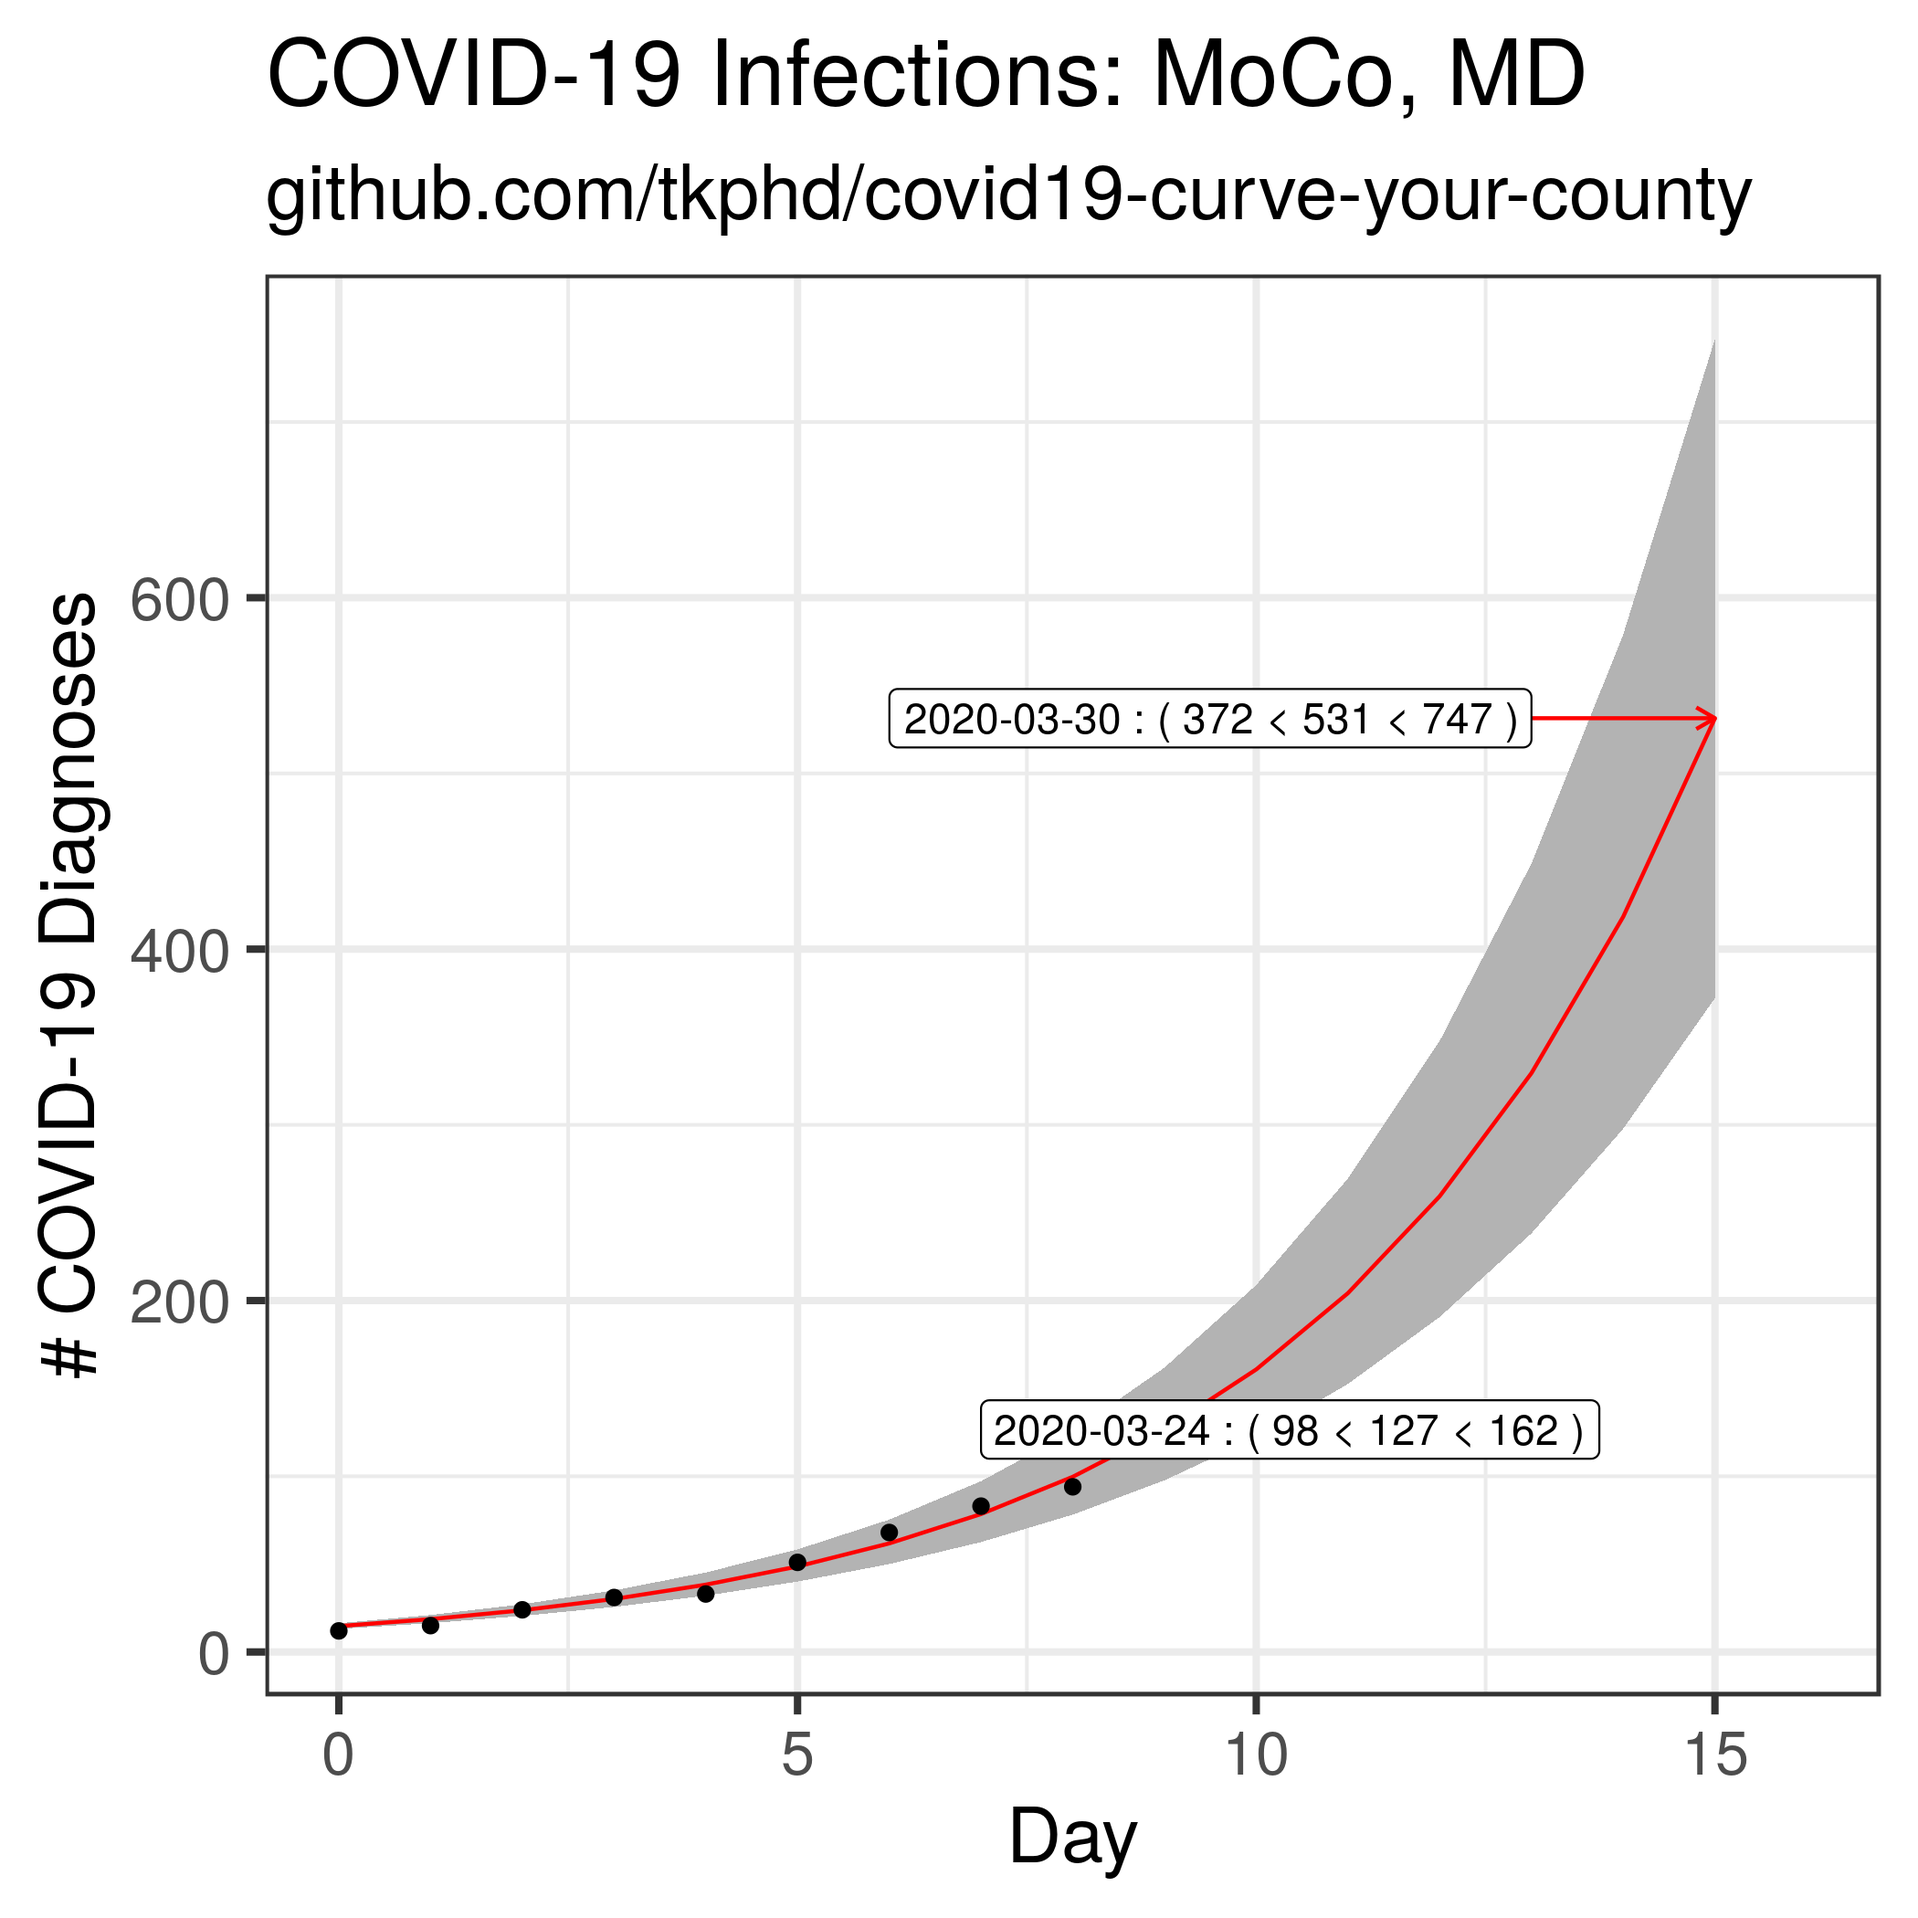
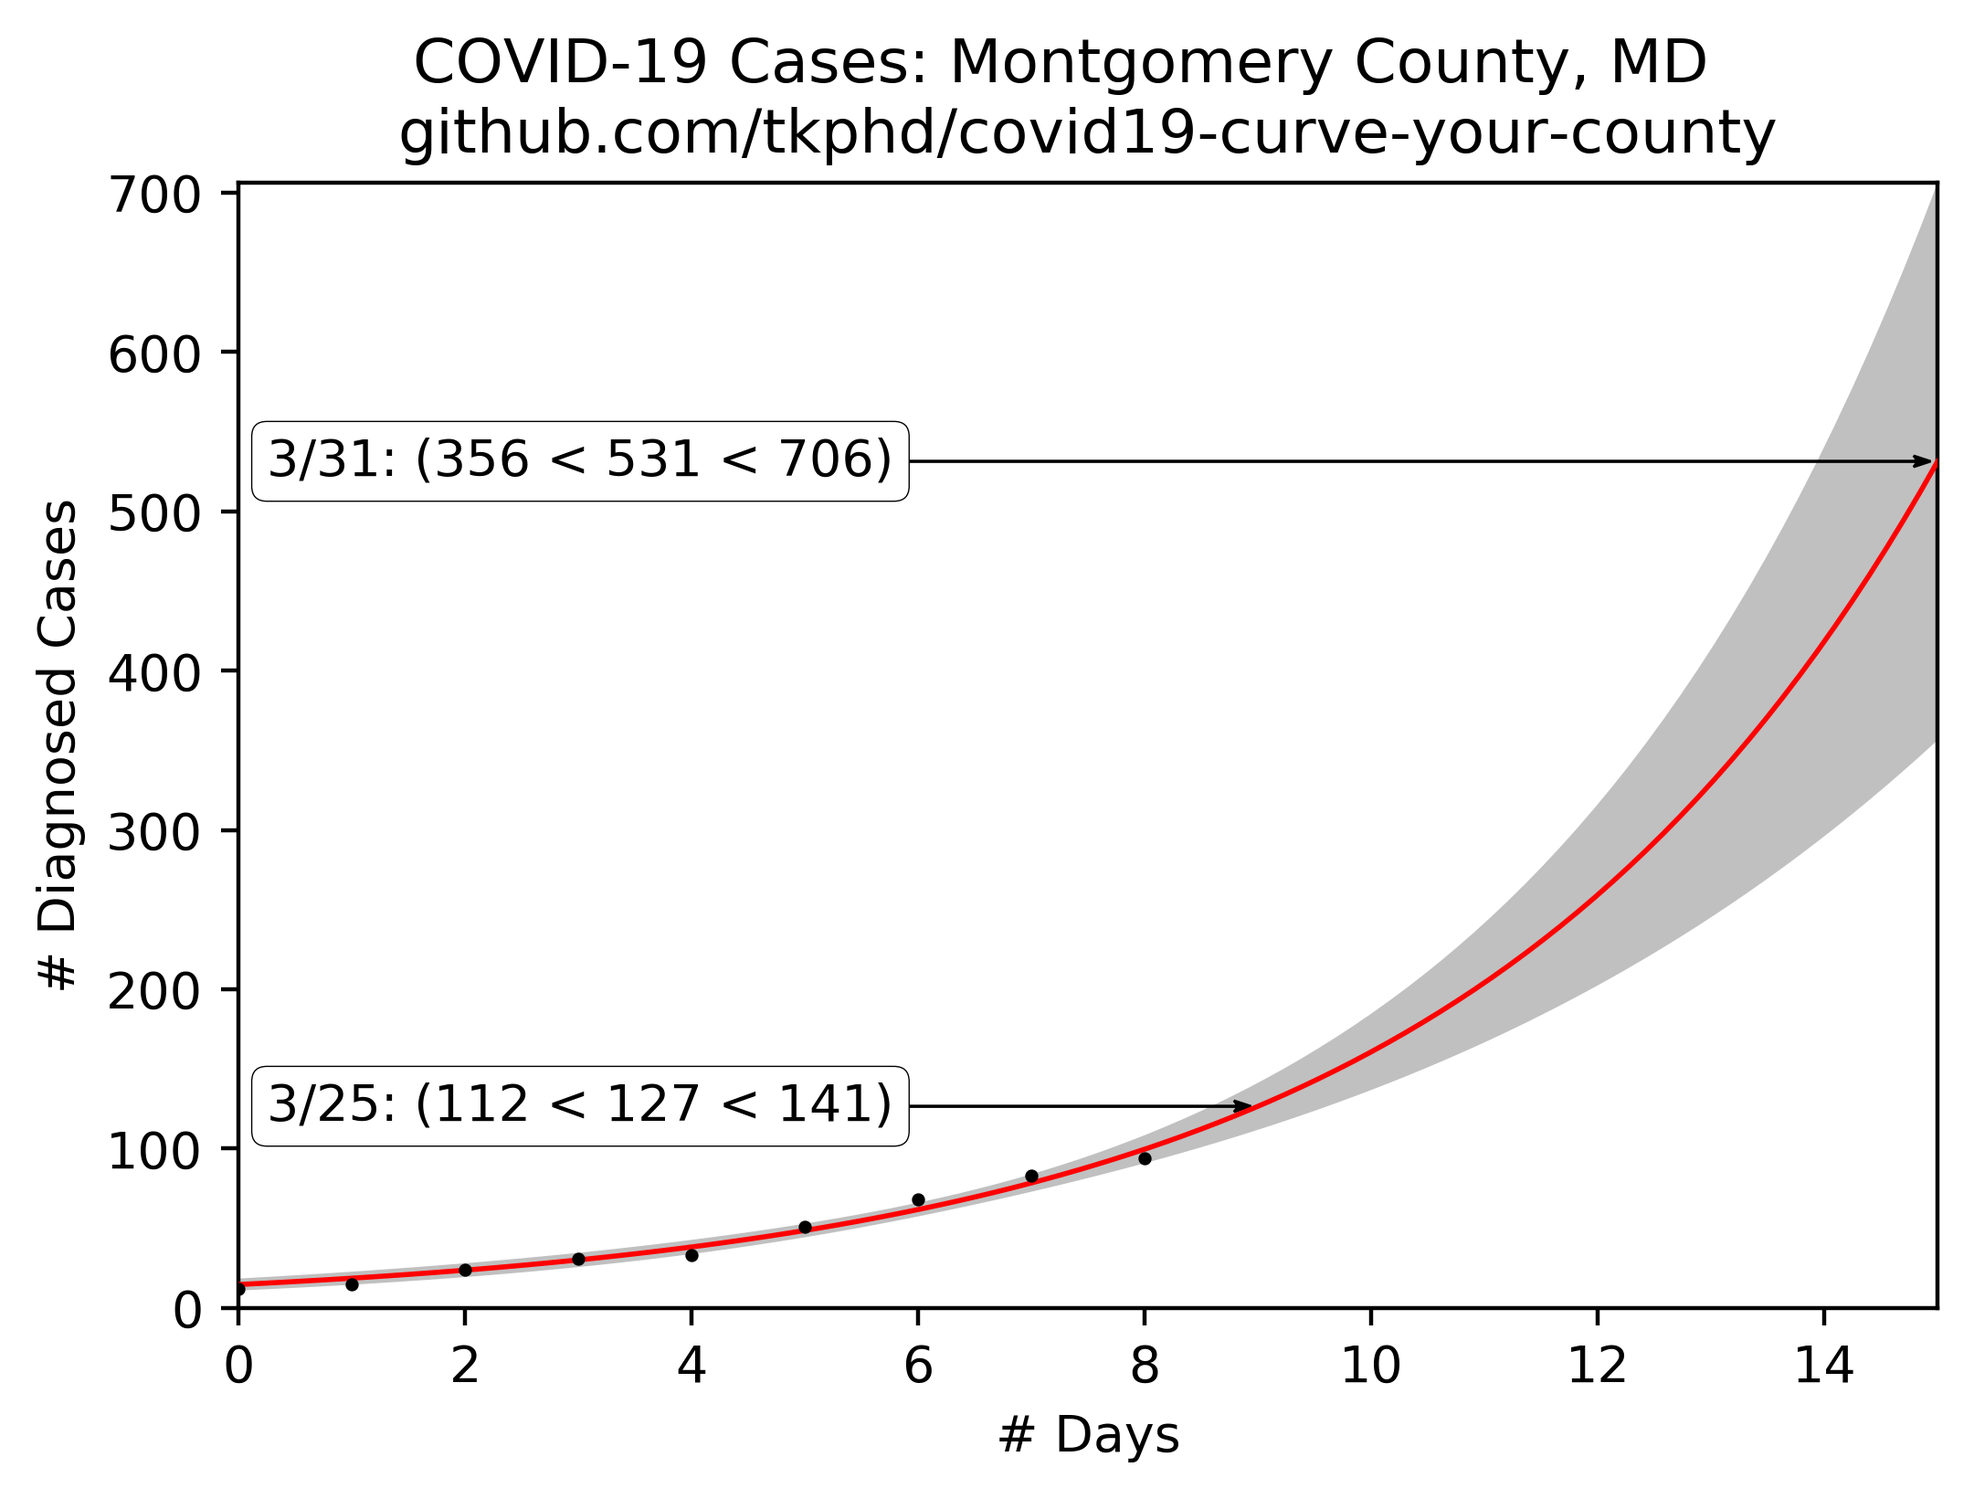
fully ported model from R to Python

diff --git a/exponential.py b/exponential.py
@@ -6,38 +6,125 @@ import numpy as np
 import pandas as pd
 from kapteyn import kmpfit
 from time import strptime
+from datetime import date
+from scipy.stats import t
 
 def model(p, x):
-    a, b, c = p
-    return a * np.exp(b * x) + c
+    a, b = p
+    return a * (1 + b) ** x
 
+
+fig = plt.figure(figsize=(6, 4))
+plt.suptitle("COVID-19 Cases: Montgomery County, MD")
+plt.title("github.com/tkphd/covid19-curve-your-county")
+plt.xlabel("# Days")
+plt.ylabel("# Diagnosed Cases")
+
+# Data
 
 df = pd.read_csv("us_md_montgomery.csv")
 
 y = np.array(df["diagnosed"])
 start = strptime(df["date"].iloc[0], "%Y-%m-%d").tm_yday
+today = strptime(df["date"].iloc[-1], "%Y-%m-%d").tm_yday
 
 x = np.zeros_like(y)
 for i in range(len(x)):
     x[i] = strptime(df["date"].iloc[i], "%Y-%m-%d").tm_yday - start
 
-# fit
-f = kmpfit.simplefit(model, [1, 1, 1], x, y)
-a, b, c = f.params
-cov = f.covar
-print("cases ~ {0:.2g} * exp({1:.2g} * (t - t0)) - {2:.2g}".format(a, b, -c))
+plt.scatter(x, y, marker=".", s=10, color="k", zorder=10)
 
-# confidence band; dfdp represents the partial derivatives of the model with respect to each parameter p (i.e., a, b, and c)
-dfdp = [np.exp(b * x), a * x * np.exp(b * x), 1]
-yhat, upper, lower = f.confidence_band(x, dfdp, 0.99, model)
+# Levenburg-Marquardt Least-Squares Fit
 
-plt.scatter(x, y, marker=".", s=10, color="#0000ba")
-ix = np.argsort(x)
-for i, l in enumerate((upper, lower, yhat)):
-    plt.plot(x[ix], l[ix], c="g" if i == 2 else "r", lw=2)
+f = kmpfit.simplefit(model, [1, 1], x, y)
+a, b = f.params
 
+print("cases ~ {0:.2g} * (1 + {1:.2g})^(t - t0))".format(a, b))
 
-plt.savefig("exponential.png", dpi=400, bbox_inches="tight")
+# Confidence Band: dfdp represents the partial derivatives of the model with respect to each parameter p (i.e., a, b, and c)
 
-print("Prediction, 1 day  from now: {0:.0f}".format(a * np.exp(b * (x[-1]+1)) + c))
-print("Prediction, 1 week from now: {0:.0f}".format(a * np.exp(b * (x[-1]+7)) + c))
+xhat = np.linspace(0, x[-1] + 7, 100)
+dfdp = [(1 + b) ** xhat, (a * xhat * (1 + b) ** xhat) / (1 + b)]
+level = 0.95
+yhat, upper, lower = f.confidence_band(xhat, dfdp, level, model)
+
+ix = np.argsort(xhat)
+plt.plot(xhat[ix], yhat[ix], c="red", lw=1, zorder=5)
+plt.fill_between(
+    xhat[ix], upper[ix], yhat[ix], edgecolor=None, facecolor="silver", zorder=1
+)
+plt.fill_between(
+    xhat[ix], lower[ix], yhat[ix], edgecolor=None, facecolor="silver", zorder=1
+)
+
+# Plot Boundaries
+
+plt.xlim([0, xhat[-1]])
+plt.ylim([0, upper[-1]])
+
+# Predictions
+
+tomorrow = date.fromordinal(today + 1)
+nextWeek = date.fromordinal(today + 7)
+
+xhat = np.array([tomorrow.toordinal() - start, nextWeek.toordinal() - start])
+dfdp = [(1 + b) ** xhat, (a * xhat * (1 + b) ** xhat) / (1 + b)]
+yhat, upper, lower = f.confidence_band(xhat, dfdp, level, model)
+dx = 0.25
+
+plt.text(
+    dx,
+    yhat[0],
+    "{0}/{1}: ({2:.0f} < {3:.0f} < {4:.0f})".format(
+        tomorrow.month, tomorrow.day, lower[0], yhat[0], upper[0]
+    ),
+    va="center",
+    zorder=5,
+    bbox=dict(boxstyle="round", ec="black", fc="white", linewidth=dx),
+)
+plt.text(
+    dx,
+    yhat[1],
+    "{0}/{1}: ({2:.0f} < {3:.0f} < {4:.0f})".format(
+        nextWeek.month, nextWeek.day, lower[1], yhat[1], upper[1]
+    ),
+    va="center",
+    zorder=5,
+    bbox=dict(boxstyle="round", ec="black", fc="white", linewidth=dx),
+)
+
+hw = (upper[1] - lower[1]) / 50
+hl = xhat[1] / 100
+
+plt.arrow(
+    dx,
+    yhat[0],
+    xhat[0] - dx - 0.0625,
+    0,
+    fc="black",
+    ec="black",
+    head_width=hw,
+    head_length=hl,
+    overhang=dx,
+    length_includes_head=True,
+    linewidth=0.5,
+    zorder=2,
+)
+plt.arrow(
+    dx,
+    yhat[1],
+    xhat[1] - dx - 0.0625,
+    0,
+    fc="black",
+    ec="black",
+    head_width=hw,
+    head_length=hl,
+    overhang=dx,
+    length_includes_head=True,
+    linewidth=0.5,
+    zorder=2,
+)
+
+# Save figure
+
+plt.savefig("us_md_montgomery.png", dpi=400, bbox_inches="tight")

diff --git a/README.md b/README.md
@@ -8,25 +8,27 @@ Ported from @psteinb's excellent chart for [Dresden, Germany](https://github.com
 
 Data source: https://coronavirus.maryland.gov/
 
-# Reproduce This!
+## Reproduce This!
 
-1. Install [R](https://www.r-project.org)
-2. Install ["tidyverse"](https://www.tidyverse.org/)
+1. Install [Python 3](https://www.anaconda.com/distribution/)
+2. Install dependencies
 
-   ``` r
-   > install.packages("tidyverse")
-   > install.packages(c("ggplot2","dplyr","readr","optparse"))
+   ```bash
+   $ conda install matplotlib numpy pandas pip scipy
+   $ pip install https://www.astro.rug.nl/software/kapteyn/kapteyn-3.0.tar.gz
    ```
 
-3. Run the `exponential.R` script against the included dataset
+3. Run the `exponential.py` script against the included dataset
 
    ``` 
-   $ Rscript exponential.R -i us_md_montgomery.csv
+   $ python exponential.py
    ```
 
 4. Create your own dataset and compare your location! *E.g.*,
 
    ```csv
    location,date,diagnosed
-   Dresden,2020-03-07,2
+   Montgomery,2020-03-07,2
    ```
+
+   Gaps in the data are OK, just provide what you have.
